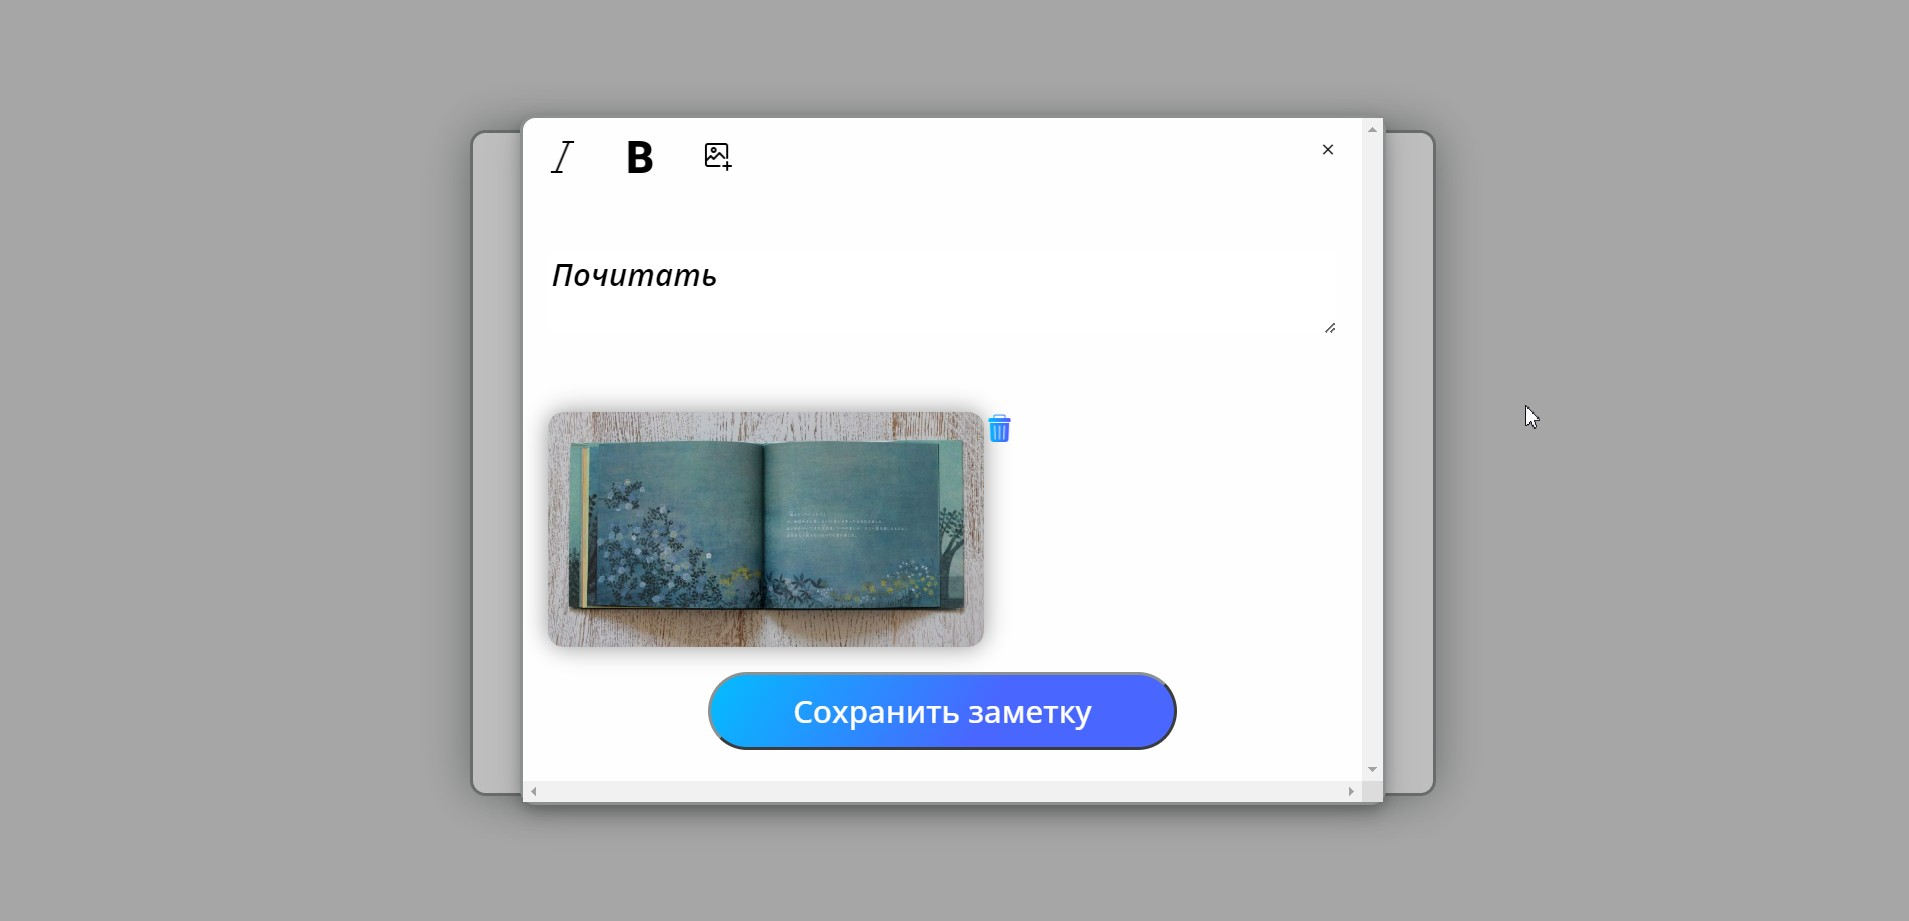
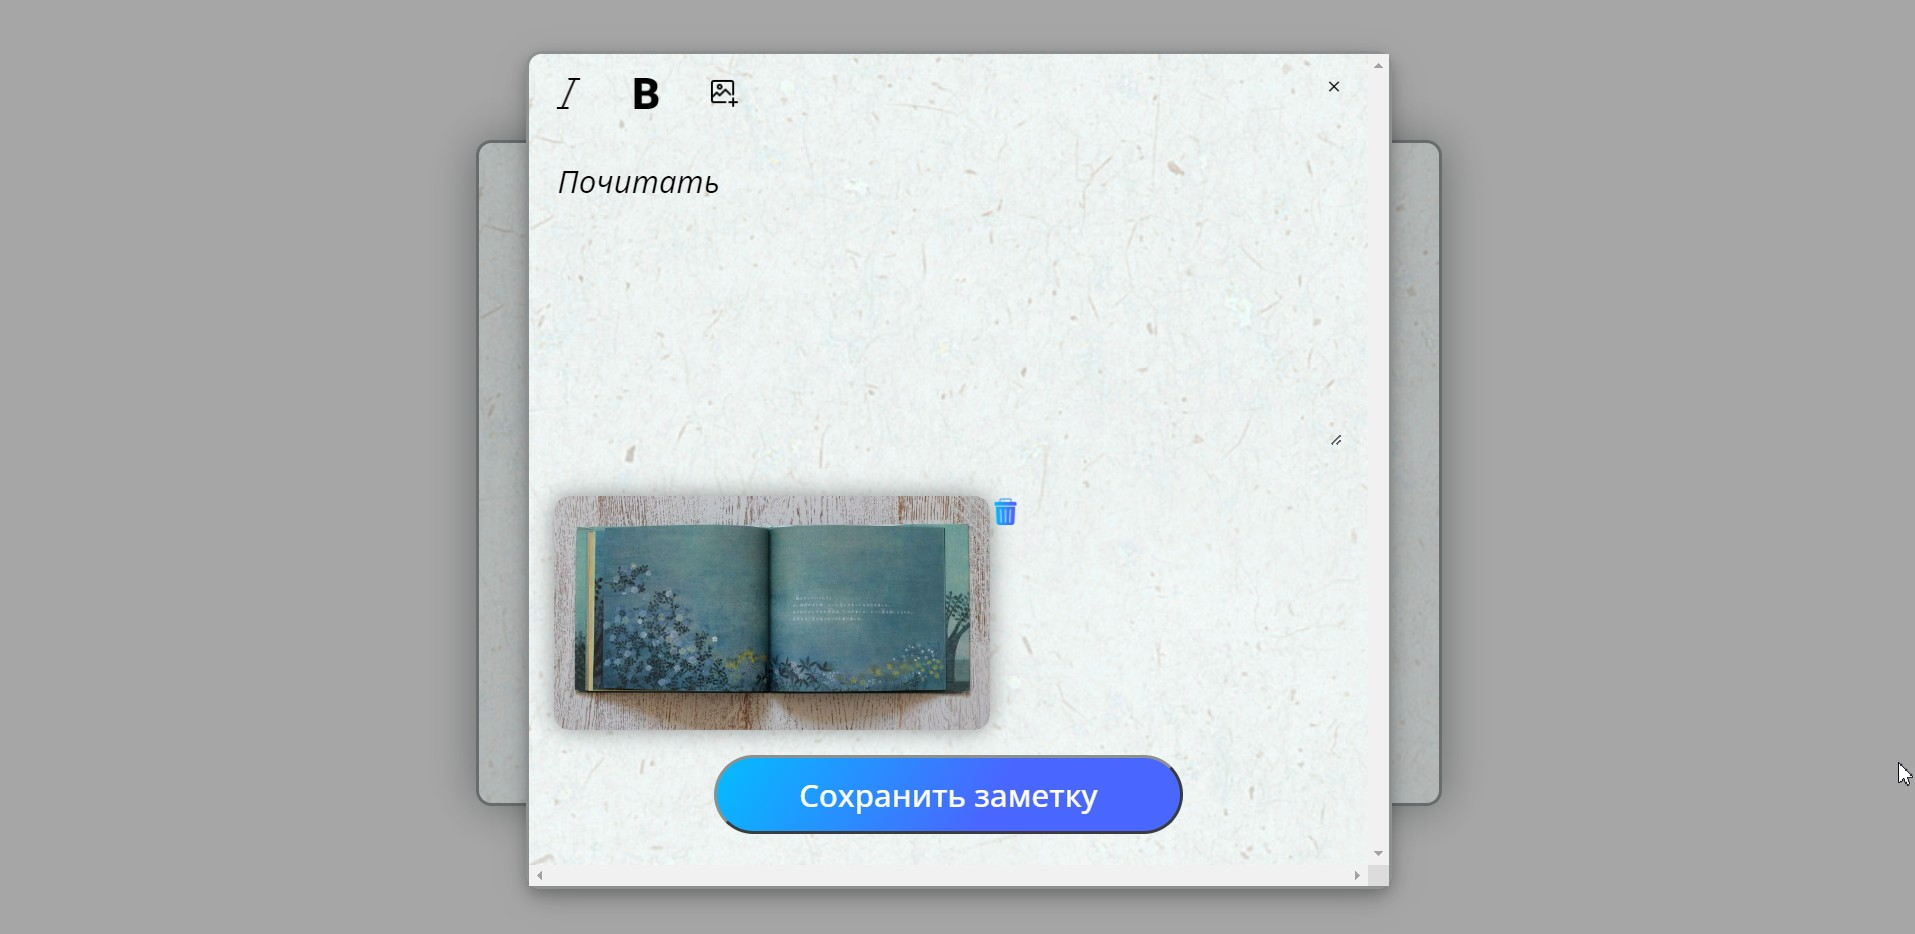
add bacground image, edit Readme screenshots and add margin for the .todo-article in App.scss file

diff --git a/src/style/modal.scss b/src/style/modal.scss
@@ -1,3 +1,4 @@
+
 @import "variables";
 
 .modal {
@@ -19,7 +20,7 @@
 .modal-dialog {
   width: 100%;
   max-width: 550px;
-  background: $white;
+  background-image: url("../images/back.jpg");
   position: relative;
   border: 2px solid $lightGrey;
   border-radius: 10px;
@@ -36,7 +37,7 @@
   animation-duration: 0.5s;
 }
 
-.modal-texarea {
+.modal-textarea {
   display: flex;
   align-items: center;
   min-height: 15vh;
@@ -44,10 +45,11 @@
 }
 
 .modal-todo {
-  height: 50px;
+  height: 30vh;
   width: 100rem;
   font-size: 20px;
   border: none;
+  background: none;
 }
 
 .modal-close {
@@ -135,5 +137,11 @@
 
   to {
     transform: translateY(0);
+  }
+}
+
+@media screen and (max-width: 500px) {
+  .modal-todo {
+    height: 40vh;
   }
 }

diff --git a/src/style/App.scss b/src/style/App.scss
@@ -13,7 +13,9 @@
   border: 2px solid $lightGrey;
   border-radius: 10px;
   background-color: $white;
-  box-shadow: 0px 0px 30px $lightGrey;}
+  background-image: url("../images/back.jpg");
+  box-shadow: 0px 0px 30px $lightGrey;
+}
 
 .App-logo {
   height: 40vmin;
@@ -71,6 +73,7 @@ form {
   font-family: 'Open Sans', sans-serif;
   font-weight: 400;
   max-width: 80%;
+  margin: 0 10px 0 10px;
 }
 
 .not-completed-todo {
@@ -106,7 +109,7 @@ label span {
   border: 3px solid $lightBlue;
   display: inline-block;
   position: relative;
-  background-color: $white;
+  background: none;
   border-radius: 5px;
   padding: 3px;
 }

diff --git a/src/components/Modal.js b/src/components/Modal.js
@@ -181,7 +181,7 @@ const Modal = ({ isVisible = false, id, onClose }) => {
           </div>
 
           {/* textarea */}
-          <div className="modal-texarea">
+          <div className="modal-textarea">
             <textarea id="control"
               className={
                 `modal-todo 
